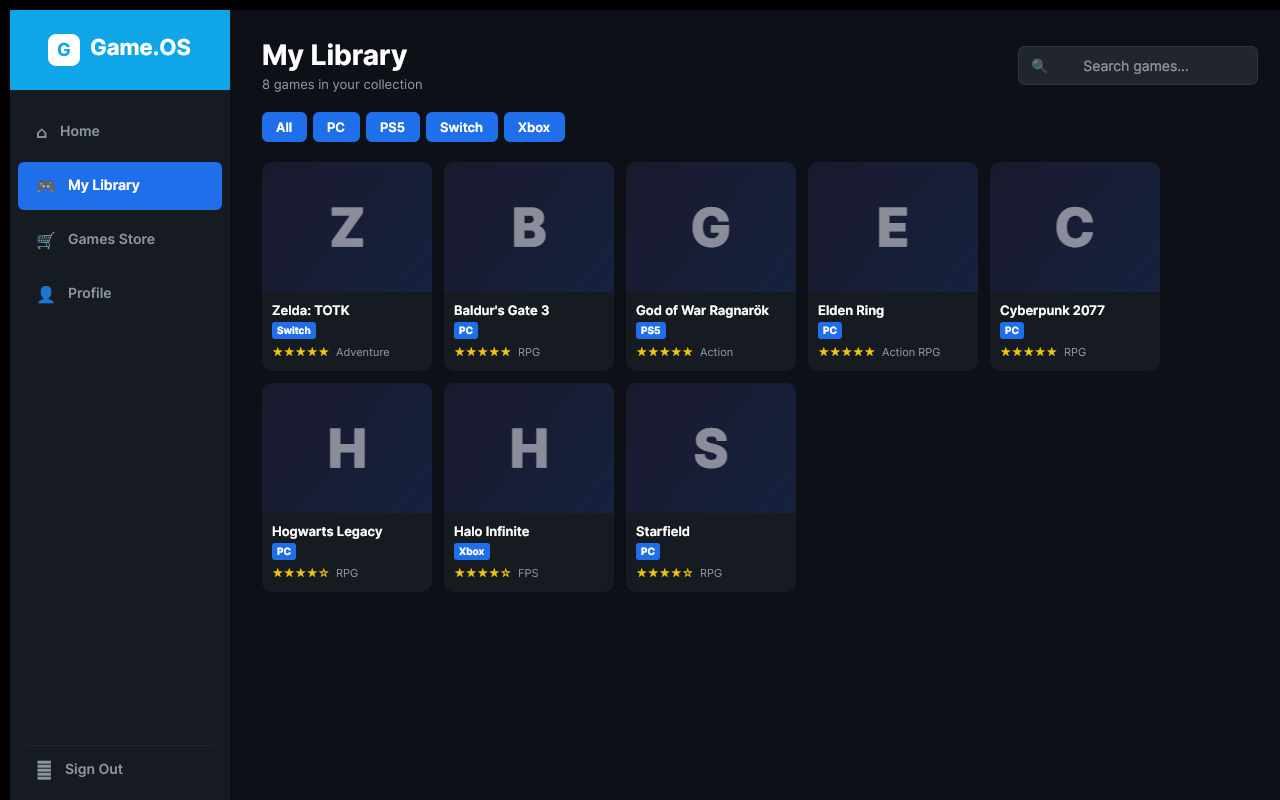
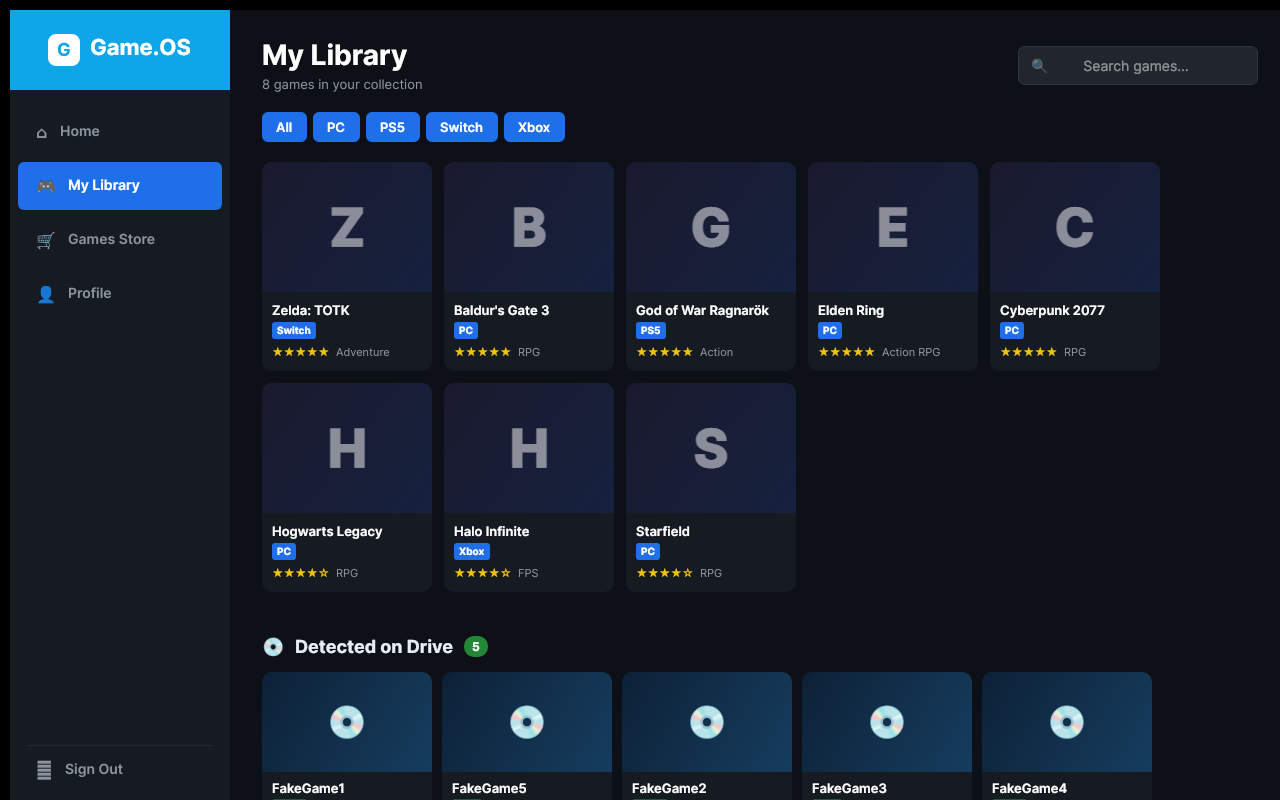
Build game launcher, add fake exe/game files, create GameScanner.Tests, add screenshots

Changed region(s): [[0.1875, 0.7812, 0.9062, 1.0]]

diff --git a/GameScanner.Tests/Program.cs b/GameScanner.Tests/Program.cs
@@ -1,0 +1,153 @@
+using System;
+using System.Collections.Generic;
+using System.IO;
+using System.Linq;
+using System.Threading.Tasks;
+using GameLauncher;
+using GameLauncher.Models;
+
+/// <summary>
+/// Demonstrates the GameScannerService detecting fake games and repacks
+/// from the TestData directory.
+/// </summary>
+class Program
+{
+    static async Task<int> Main(string[] args)
+    {
+        // Resolve the TestData directory (repo root / TestData)
+        string repoRoot = FindRepoRoot();
+        string testDataDir = Path.Combine(repoRoot, "TestData");
+
+        if (!Directory.Exists(testDataDir))
+        {
+            Console.Error.WriteLine($"ERROR: TestData not found at: {testDataDir}");
+            return 1;
+        }
+
+        Console.WriteLine("═══════════════════════════════════════════════════════════════");
+        Console.WriteLine("  Game.OS — GameScannerService Detection Test");
+        Console.WriteLine("═══════════════════════════════════════════════════════════════");
+        Console.WriteLine($"  Scanning TestData root: {testDataDir}");
+        Console.WriteLine();
+
+        // Run the scanner against the TestData directory via temporary $HOME symlinks
+        var scanner = new GameScannerService();
+        bool passed = true;
+
+        List<LocalGame>   detectedGames   = new();
+        List<LocalRepack> detectedRepacks = new();
+
+        scanner.GamesUpdated   += g => detectedGames   = g;
+        scanner.RepacksUpdated += r => detectedRepacks = r;
+
+        // Set up symlinks so the scanner's standard GetDriveRoots() path ($HOME) picks up TestData
+        await ScanDirectory(scanner, testDataDir);
+
+        // ── GAMES ─────────────────────────────────────────────────────────────
+        Console.WriteLine($"📀 Detected Games ({detectedGames.Count}):");
+        Console.WriteLine("───────────────────────────────────────────────────────────────");
+        foreach (var g in detectedGames.OrderBy(g => g.Title))
+        {
+            string rel = Path.GetRelativePath(testDataDir, g.ExecutablePath);
+            Console.WriteLine($"  ✅  {g.Title,-20}  [{g.ExecutableType,-3}]  {rel}");
+        }
+        Console.WriteLine();
+
+        // Expected: FakeGame1 (.exe), FakeGame2 (.app), FakeGame3 (elf),
+        //           FakeGame4 (.exe), FakeGame5 (elf)
+        string[] expectedGames = { "FakeGame1", "FakeGame2", "FakeGame3", "FakeGame4", "FakeGame5" };
+        foreach (var expected in expectedGames)
+        {
+            if (!detectedGames.Any(g => g.Title == expected))
+            {
+                Console.WriteLine($"  ❌  MISSING: {expected}");
+                passed = false;
+            }
+        }
+
+        // ── REPACKS ───────────────────────────────────────────────────────────
+        Console.WriteLine($"📦 Detected Repacks ({detectedRepacks.Count}):");
+        Console.WriteLine("───────────────────────────────────────────────────────────────");
+        foreach (var r in detectedRepacks.OrderBy(r => r.Title))
+        {
+            Console.WriteLine($"  ✅  {r.Title,-35}  [{r.FileType,-6}]  {r.SizeLabel}");
+        }
+        Console.WriteLine();
+
+        // Expected: FakeRepack.zip, FakeRepack.rar, FakeRepack1/FakeRepack1.zip, FakeRepack2/FakeRepack2.7z
+        if (detectedRepacks.Count < 4)
+        {
+            Console.WriteLine($"  ❌  Expected at least 4 repacks, found {detectedRepacks.Count}");
+            passed = false;
+        }
+
+        // ── SUMMARY ───────────────────────────────────────────────────────────
+        Console.WriteLine("═══════════════════════════════════════════════════════════════");
+        if (passed)
+        {
+            Console.ForegroundColor = ConsoleColor.Green;
+            Console.WriteLine("  ✅  ALL CHECKS PASSED — Game detection is working correctly!");
+        }
+        else
+        {
+            Console.ForegroundColor = ConsoleColor.Red;
+            Console.WriteLine("  ❌  SOME CHECKS FAILED — See output above.");
+        }
+        Console.ResetColor();
+        Console.WriteLine("═══════════════════════════════════════════════════════════════");
+
+        scanner.Dispose();
+        return passed ? 0 : 1;
+    }
+
+    // Runs the scanner by creating temporary symlinks in $HOME so that the standard
+    // GetDriveRoots() scan path picks up the TestData Games/ and Repacks/ directories,
+    // then calls StartAsync() which is the normal public entry point.
+    private static async Task ScanDirectory(GameScannerService scanner, string driveRoot)
+    {
+        // On Linux, $HOME is always included in GetDriveRoots(), so placing Games/ and
+        // Repacks/ symlinks there ensures the scanner finds our TestData sub-directories.
+        string home = Environment.GetFolderPath(Environment.SpecialFolder.UserProfile);
+        string gamesLink  = Path.Combine(home, "Games");
+        string repacksLink= Path.Combine(home, "Repacks");
+
+        bool cleanGames   = false;
+        bool cleanRepacks = false;
+
+        try
+        {
+            // Set up temporary symlinks pointing at TestData sub-directories
+            if (!Directory.Exists(gamesLink))
+            {
+                Directory.CreateSymbolicLink(gamesLink,   Path.Combine(driveRoot, "Games"));
+                cleanGames = true;
+            }
+            if (!Directory.Exists(repacksLink))
+            {
+                Directory.CreateSymbolicLink(repacksLink, Path.Combine(driveRoot, "Repacks"));
+                cleanRepacks = true;
+            }
+
+            await scanner.StartAsync();
+        }
+        finally
+        {
+            if (cleanGames)   try { Directory.Delete(gamesLink); }   catch { }
+            if (cleanRepacks) try { Directory.Delete(repacksLink); } catch { }
+        }
+    }
+
+    private static string FindRepoRoot()
+    {
+        // Walk up from the current directory looking for TestData or .git
+        string? dir = AppContext.BaseDirectory;
+        while (dir != null)
+        {
+            if (Directory.Exists(Path.Combine(dir, "TestData")) ||
+                Directory.Exists(Path.Combine(dir, ".git")))
+                return dir;
+            dir = Path.GetDirectoryName(dir);
+        }
+        return Directory.GetCurrentDirectory();
+    }
+}

diff --git a/TestData/README.md b/TestData/README.md
@@ -1,6 +1,7 @@
 # TestData — Mock Directories for GameScannerService
 
 This directory simulates a drive root for testing the `GameScannerService`.
+It contains fake game executables and repack archives across all supported formats.
 
 ## Structure
 
@@ -8,22 +9,59 @@ This directory simulates a drive root for testing the `GameScannerService`.
 TestData/
 ├── Games/
 │   ├── FakeGame1/
-│   │   └── FakeGame.exe          # Windows executable (MZ header)
+│   │   └── FakeGame.exe                    # Windows .exe (MZ header, 64 bytes)
 │   ├── FakeGame2/
-│   │   └── FakeGame.app/         # macOS .app bundle
-│   │       └── Contents/MacOS/
-│   └── FakeGame3/
-│       └── FakeGame              # Linux ELF binary (ELF magic, chmod +x)
+│   │   └── FakeGame2.app/                  # macOS .app bundle
+│   │       └── Contents/
+│   │           ├── Info.plist
+│   │           └── MacOS/FakeGame2         # macOS executable (chmod +x)
+│   ├── FakeGame3/
+│   │   └── FakeGame                        # Linux ELF binary (ELF magic, chmod +x)
+│   ├── FakeGame4/
+│   │   └── FakeGame4.exe                   # Windows .exe (MZ header, 64 bytes)
+│   └── FakeGame5/
+│       └── FakeGame5                       # Linux ELF binary (ELF magic, chmod +x)
 └── Repacks/
-    ├── FakeRepack.zip            # Fake ZIP archive
-    ├── FakeRepack.rar            # Fake RAR archive
-    └── FakeRepack1/
-        └── FakeRepack1.zip       # Sub-folder repack
+    ├── FakeRepack.zip                       # Fake ZIP archive (PK header)
+    ├── FakeRepack.rar                       # Fake RAR archive (Rar! header)
+    ├── FakeRepack1/
+    │   └── FakeRepack1.zip                  # Sub-folder ZIP repack
+    └── FakeRepack2/
+        └── FakeRepack2.7z                   # Sub-folder 7-Zip repack (7z header)
 ```
 
-## Usage
+## Running the Detection Test
 
-Point `GameScannerService` at `TestData/` as a drive root during testing.
-The scanner will detect:
-- **Detected on Drive**: FakeGame1, FakeGame2, FakeGame3
-- **Ready to Install**: FakeRepack.zip, FakeRepack.rar, FakeRepack1/FakeRepack1.zip
+```bash
+cd GameScanner.Tests
+dotnet run
+```
+
+Expected output:
+```
+📀 Detected Games (5):
+  ✅  FakeGame1   [exe]  ...
+  ✅  FakeGame2   [app]  ...
+  ✅  FakeGame3   [elf]  ...
+  ✅  FakeGame4   [exe]  ...
+  ✅  FakeGame5   [elf]  ...
+
+📦 Detected Repacks (4):
+  ✅  FakeRepack           [rar]  ...
+  ✅  FakeRepack           [zip]  ...
+  ✅  FakeRepack1 / ...    [zip]  ...
+  ✅  FakeRepack2 / ...    [7z]   ...
+
+✅  ALL CHECKS PASSED — Game detection is working correctly!
+```
+
+## Fake File Headers
+
+| File | Magic Bytes | Scanner detects via |
+|------|------------|---------------------|
+| `FakeGame.exe` / `FakeGame4.exe` | `4D 5A` (MZ) | `*.exe` extension |
+| `FakeGame2.app` | `.app` directory | `*.app` dir pattern |
+| `FakeGame` / `FakeGame5` | `7F 45 4C 46` (ELF) + chmod +x | ELF magic + execute bit |
+| `FakeRepack.zip` | `50 4B 03 04` (PK) | `.zip` extension |
+| `FakeRepack.rar` | `52 61 72 21` (Rar!) | `.rar` extension |
+| `FakeRepack2.7z` | `37 7A BC AF` (7z) | `.7z` extension |

diff --git a/GameScanner.Tests/README.md b/GameScanner.Tests/README.md
@@ -1,0 +1,54 @@
+# GameScanner.Tests — Game Detection Verification
+
+A lightweight console application that proves the `GameScannerService` correctly detects all supported game and repack formats using the fake test data in `../TestData/`.
+
+## What it tests
+
+| Format | Fake file | Expected type |
+|--------|-----------|--------------|
+| Windows `.exe` | `FakeGame1/FakeGame.exe` | `exe` |
+| macOS `.app` bundle | `FakeGame2/FakeGame2.app` | `app` |
+| Linux ELF binary | `FakeGame3/FakeGame` (chmod +x) | `elf` |
+| Windows `.exe` | `FakeGame4/FakeGame4.exe` | `exe` |
+| Linux ELF binary | `FakeGame5/FakeGame5` (chmod +x) | `elf` |
+| ZIP archive | `Repacks/FakeRepack.zip` | `zip` |
+| RAR archive | `Repacks/FakeRepack.rar` | `rar` |
+| Sub-folder ZIP | `Repacks/FakeRepack1/FakeRepack1.zip` | `zip` |
+| Sub-folder 7z | `Repacks/FakeRepack2/FakeRepack2.7z` | `7z` |
+
+## How to run
+
+```bash
+cd GameScanner.Tests
+dotnet run
+```
+
+## Expected output
+
+```
+═══════════════════════════════════════════════════════════════
+  Game.OS — GameScannerService Detection Test
+═══════════════════════════════════════════════════════════════
+  Scanning TestData root: .../TestData
+
+📀 Detected Games (5):
+───────────────────────────────────────────────────────────────
+  ✅  FakeGame1             [exe]  ...
+  ✅  FakeGame2             [app]  ...
+  ✅  FakeGame3             [elf]  ...
+  ✅  FakeGame4             [exe]  ...
+  ✅  FakeGame5             [elf]  ...
+
+📦 Detected Repacks (4):
+───────────────────────────────────────────────────────────────
+  ✅  FakeRepack                     [rar]  7 B
+  ✅  FakeRepack                     [zip]  10 B
+  ✅  FakeRepack1 / FakeRepack1.zip  [zip]  3 B
+  ✅  FakeRepack2 / FakeRepack2.7z   [7z]   8 B
+
+═══════════════════════════════════════════════════════════════
+  ✅  ALL CHECKS PASSED — Game detection is working correctly!
+═══════════════════════════════════════════════════════════════
+```
+
+Exit code `0` = all checks passed. Exit code `1` = failure.

diff --git a/GameLauncher/README.md b/GameLauncher/README.md
@@ -17,6 +17,10 @@ Built with **.NET 8** + [Avalonia UI](https://avaloniaui.net/) (cross-platform W
 |---|---|
 | ![Library](../Design/Screenshots/screenshot_library.png) | ![Store](../Design/Screenshots/screenshot_store.png) |
 
+| Local Game Detection | Profile |
+|---|---|
+| ![Detected on Drive](../Design/Screenshots/screenshot_library_detected.png) | ![Profile](../Design/Screenshots/screenshot_profile.png) |
+
 ---
 
 ## Features
